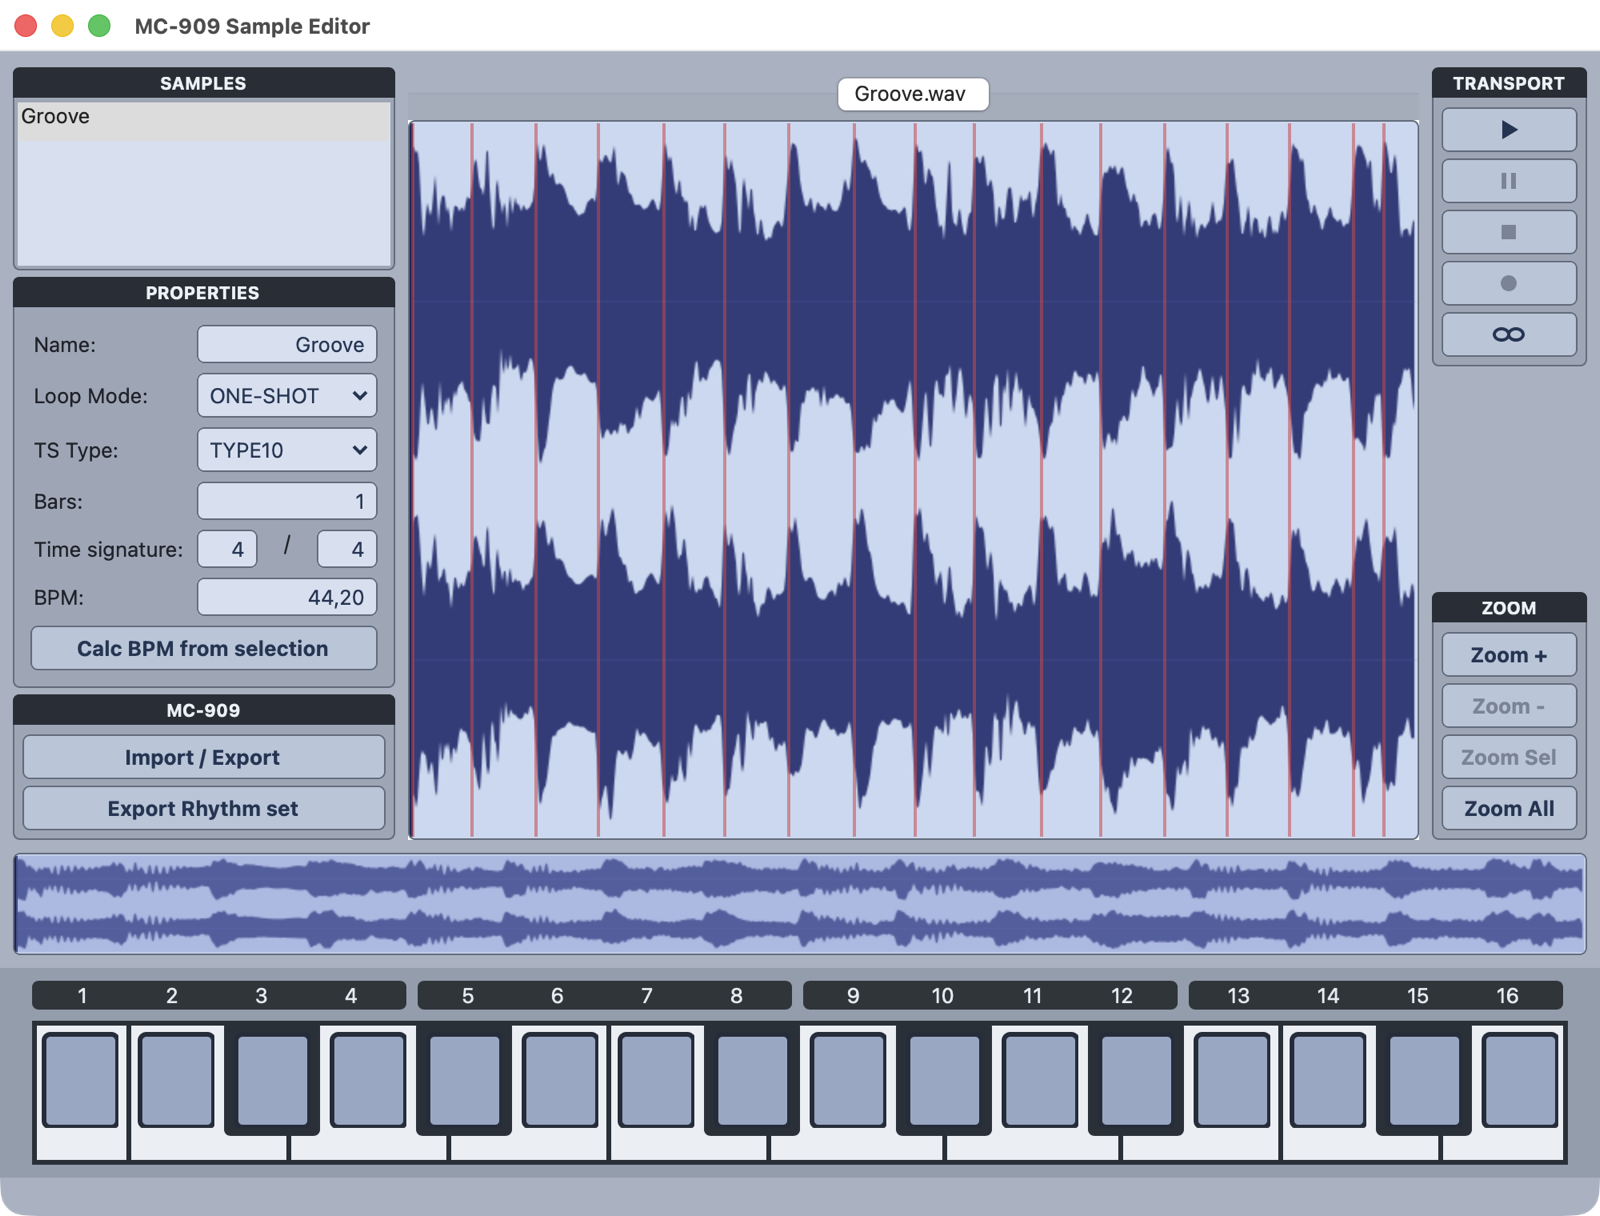
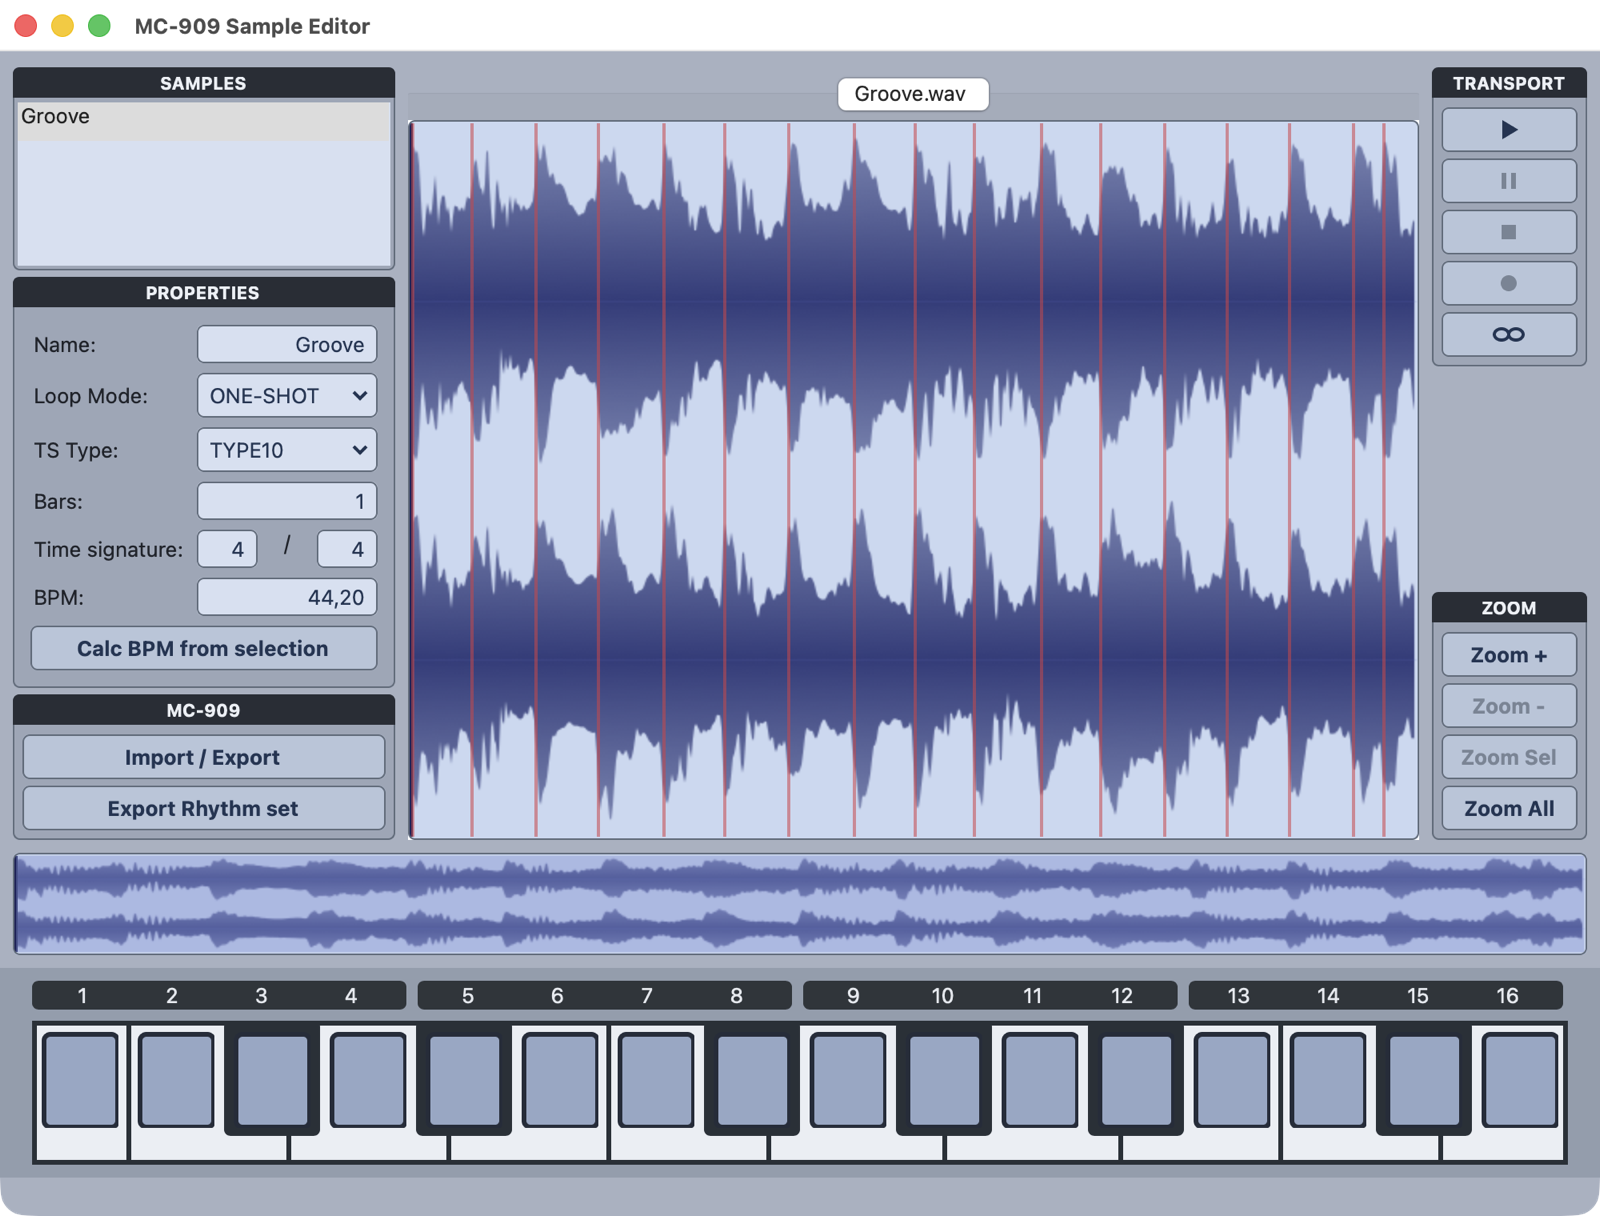
Release 1.4.2: waveform gradients
- The smoothed waveforms (MC-909, MC-909 Editor and Modern themes) are
  filled with a vertical gradient, mirrored at the middle line: full wave
  color at the middle line, blended towards the background at the peaks.
  The overview uses a weaker gradient. Classic and high contrast stay flat.
- DropHint no longer uses the deprecated TypedListener
- README screenshot updated

diff --git a/app/src/com/groovemanager/gui/custom/WaveFormDisplay.java b/app/src/com/groovemanager/gui/custom/WaveFormDisplay.java
@@ -24,6 +24,8 @@ import org.eclipse.swt.graphics.GC;
 import org.eclipse.swt.graphics.Image;
 import org.eclipse.swt.graphics.Path;
 import org.eclipse.swt.graphics.Rectangle;
+import org.eclipse.swt.graphics.Pattern;
+import org.eclipse.swt.graphics.RGB;
 import org.eclipse.swt.widgets.Canvas;
 import org.eclipse.swt.widgets.Composite;
 import org.eclipse.swt.widgets.Display;
@@ -102,6 +104,12 @@ public class WaveFormDisplay extends MarkableWaveFormDisplay {
 	 * Width of the markers in pixels
 	 */
 	protected int markerWidth = 1;
+	/**
+	 * Strength of the vertical gradient of the smoothed waveform: how far
+	 * the color at the peaks is blended towards the background, from 0
+	 * (no gradient) to 1
+	 */
+	protected float waveGradient;
 	/**
 	 * Opacity of the middle line in the smoothed look
 	 */
@@ -335,6 +343,20 @@ public class WaveFormDisplay extends MarkableWaveFormDisplay {
 	 * Draw the markers opaque, also in the smoothed look
 	 * @param highContrast true for opaque markers
 	 */
+	/**
+	 * Set the strength of the vertical gradient of the smoothed waveform. The
+	 * waveform keeps its color at the middle line and is blended towards the
+	 * background at the peaks.
+	 * @param strength 0 for no gradient up to 1
+	 */
+	public void setWaveGradient(float strength){
+		waveGradient = Math.max(0, Math.min(1, strength));
+		redraw();
+	}
+	/**
+	 * Draw the markers opaque for a high contrast
+	 * @param highContrast true for opaque markers
+	 */
 	public void setHighContrast(boolean highContrast){
 		this.highContrast = highContrast;
 		requestPaint();
@@ -546,10 +568,53 @@ public class WaveFormDisplay extends MarkableWaveFormDisplay {
 				p.lineTo(leftOffset + x, smoothY(top, height, min, x, count));
 			}
 			p.close();
-			currentGC.fillPath(p);
+			if(waveGradient > 0) fillGradient(p, top, height);
+			else currentGC.fillPath(p);
 			p.dispose();
 		}
 		currentGC.setAntialias(SWT.DEFAULT);
+	}
+	/**
+	 * Fill the outline of a channel with a gradient, mirrored at the middle
+	 * line: the wave color at the middle line, blended towards the
+	 * background at the peaks
+	 * @param p The outline of the channel
+	 * @param top The top of the channel
+	 * @param height The height of the channel
+	 */
+	protected void fillGradient(Path p, int top, int height){
+		Color outer = blend(waveColor, channelBackgroundColor, waveGradient);
+		Rectangle clip = currentGC.getClipping();
+		int middle = top + height / 2;
+		Rectangle[] halves = {
+			new Rectangle(clip.x, top, clip.width, middle - top),
+			new Rectangle(clip.x, middle, clip.width, top + height - middle)
+		};
+		for (int i = 0; i < halves.length; i++) {
+			int edge = i == 0 ? top : top + height;
+			Pattern pattern = new Pattern(comp.getDisplay(), 0, edge, 0, middle, outer, waveColor);
+			currentGC.setClipping(halves[i].intersection(clip));
+			currentGC.setBackgroundPattern(pattern);
+			currentGC.fillPath(p);
+			currentGC.setBackgroundPattern(null);
+			pattern.dispose();
+		}
+		currentGC.setClipping(clip);
+		outer.dispose();
+	}
+	/**
+	 * Mix two colors
+	 * @param c The first color
+	 * @param towards The second color
+	 * @param amount The share of the second color, from 0 to 1
+	 * @return The new Color, to be disposed by the caller
+	 */
+	protected Color blend(Color c, Color towards, float amount){
+		RGB a = c.getRGB(), b = towards == null ? a : towards.getRGB();
+		return new Color(comp.getDisplay(), new RGB(
+				Math.round(a.red + (b.red - a.red) * amount),
+				Math.round(a.green + (b.green - a.green) * amount),
+				Math.round(a.blue + (b.blue - a.blue) * amount)));
 	}
 	/**
 	 * Calculate the y coordinate of a waveform outline point, smoothed with

diff --git a/app/src/com/groovemanager/gui/custom/DropHint.java b/app/src/com/groovemanager/gui/custom/DropHint.java
@@ -9,6 +9,7 @@ import org.eclipse.swt.events.MouseAdapter;
 import org.eclipse.swt.events.MouseEvent;
 import org.eclipse.swt.events.PaintEvent;
 import org.eclipse.swt.events.PaintListener;
+import org.eclipse.swt.events.SelectionEvent;
 import org.eclipse.swt.events.SelectionListener;
 import org.eclipse.swt.graphics.Color;
 import org.eclipse.swt.graphics.Font;
@@ -19,7 +20,7 @@ import org.eclipse.swt.graphics.Rectangle;
 import org.eclipse.swt.widgets.Canvas;
 import org.eclipse.swt.widgets.Composite;
 import org.eclipse.swt.widgets.Event;
-import org.eclipse.swt.widgets.TypedListener;
+import org.eclipse.swt.widgets.Listener;
 
 import com.groovemanager.gui.Spacing;
 import com.groovemanager.gui.theme.Theme;
@@ -105,8 +106,12 @@ public class DropHint extends Canvas implements ThemeListener{
 	 * Add a listener that is informed about clicks on this DropHint
 	 * @param listener The SelectionListener
 	 */
-	public void addSelectionListener(SelectionListener listener){
-		addListener(SWT.Selection, new TypedListener(listener));
+	public void addSelectionListener(final SelectionListener listener){
+		addListener(SWT.Selection, new Listener() {
+			public void handleEvent(Event e) {
+				listener.widgetSelected(new SelectionEvent(e));
+			}
+		});
 	}
 	/**
 	 * @see com.groovemanager.gui.theme.ThemeListener#applyTheme(com.groovemanager.gui.theme.Theme)

diff --git a/app/src/com/groovemanager/gui/theme/Theme.java b/app/src/com/groovemanager/gui/theme/Theme.java
@@ -288,6 +288,10 @@ public class Theme {
 	 */
 	boolean softWave;
 	/**
+	 * Strength of the gradient of the smoothed main and overview waveform
+	 */
+	protected final static float WAVE_GRADIENT = 0.5f, OVERVIEW_GRADIENT = 0.4f;
+	/**
 	 * Width of the slice markers in pixels
 	 */
 	int markerWidth = 1;
@@ -370,6 +374,8 @@ public class Theme {
 		d.setSoft(softWave);
 		d.setMarkerWidth(hc ? Math.max(2, markerWidth) : markerWidth);
 		d.setHighContrast(hc);
+		// the high contrast waveform stays flat
+		d.setWaveGradient(softWave && !hc ? WAVE_GRADIENT : 0);
 	}
 	/**
 	 * Apply the colors of the overview waveform display
@@ -390,6 +396,8 @@ public class Theme {
 		d.setSoft(softWave);
 		d.setMarkerWidth(hc ? Math.max(2, markerWidth) : markerWidth);
 		d.setHighContrast(hc);
+		// the high contrast waveform stays flat
+		d.setWaveGradient(softWave && !hc ? OVERVIEW_GRADIENT : 0);
 	}
 	/**
 	 * Get black or white, whichever contrasts more with the given color.
